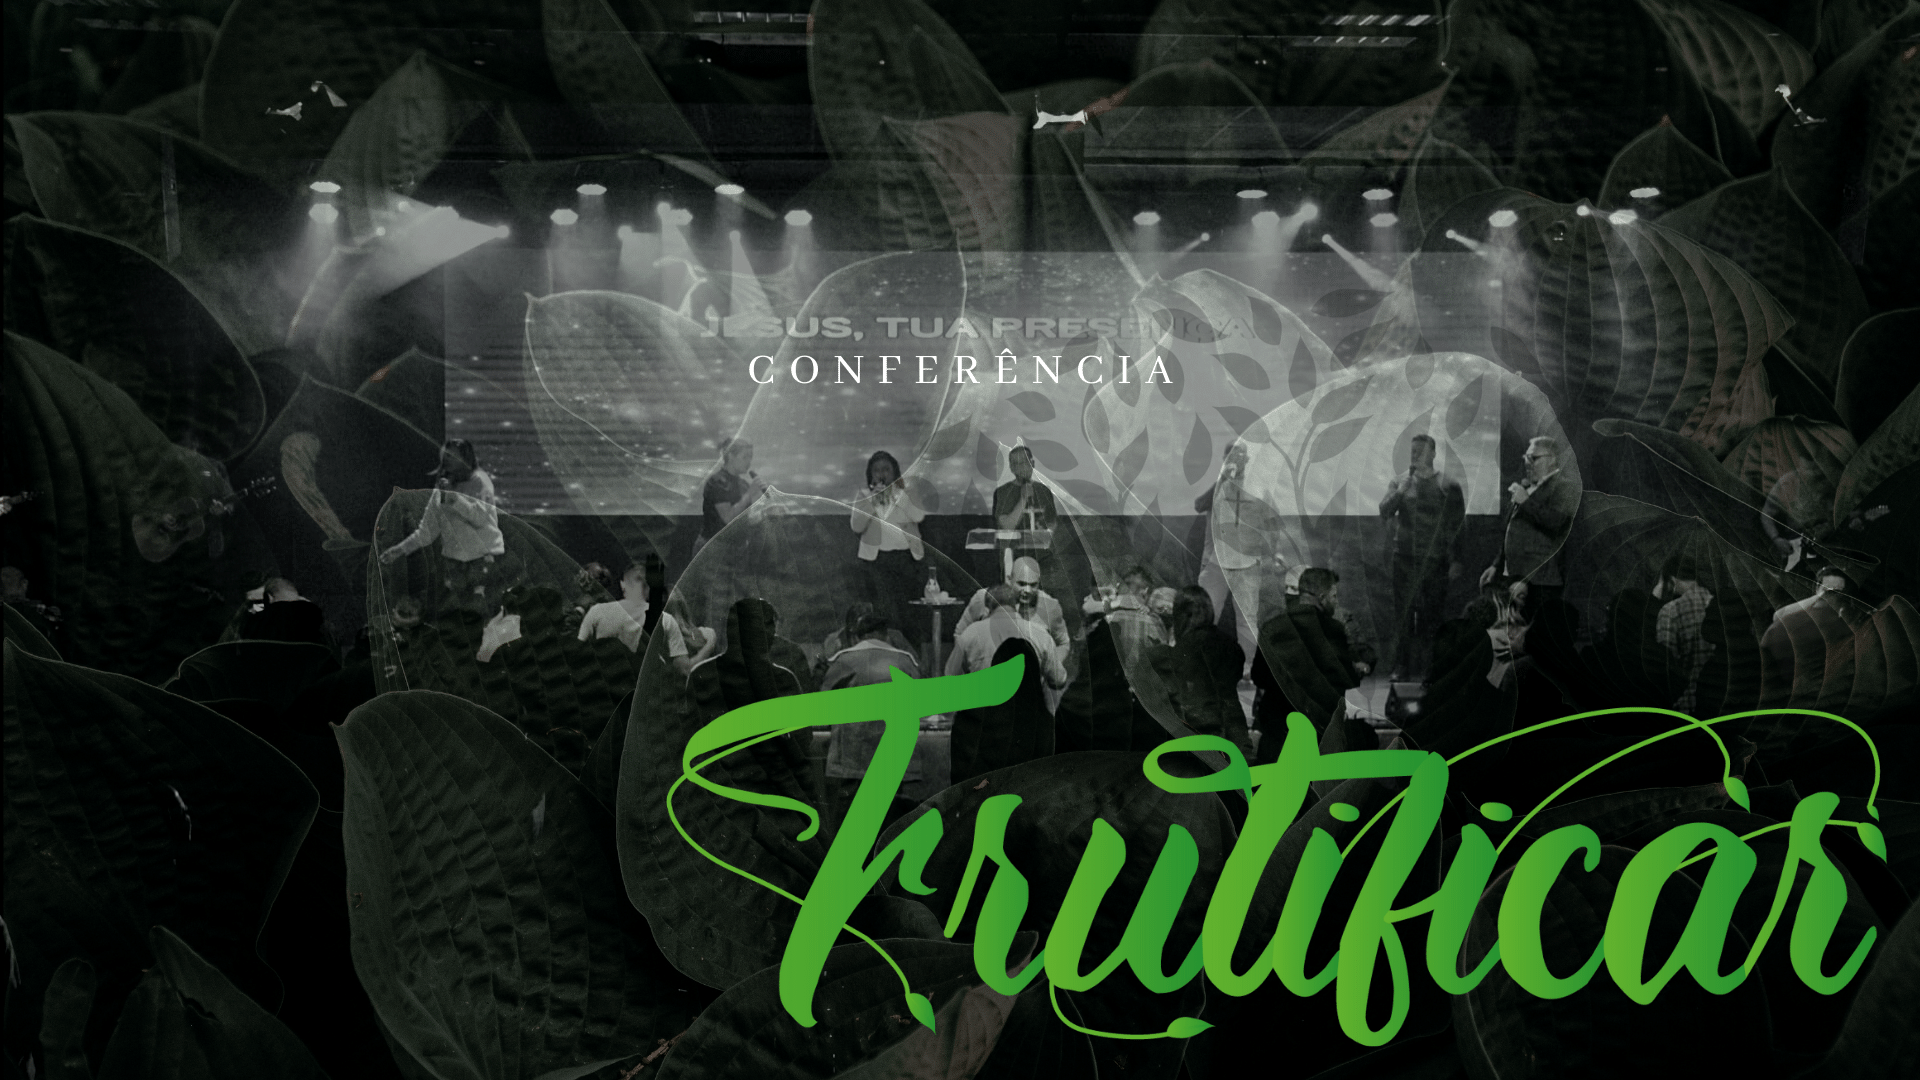
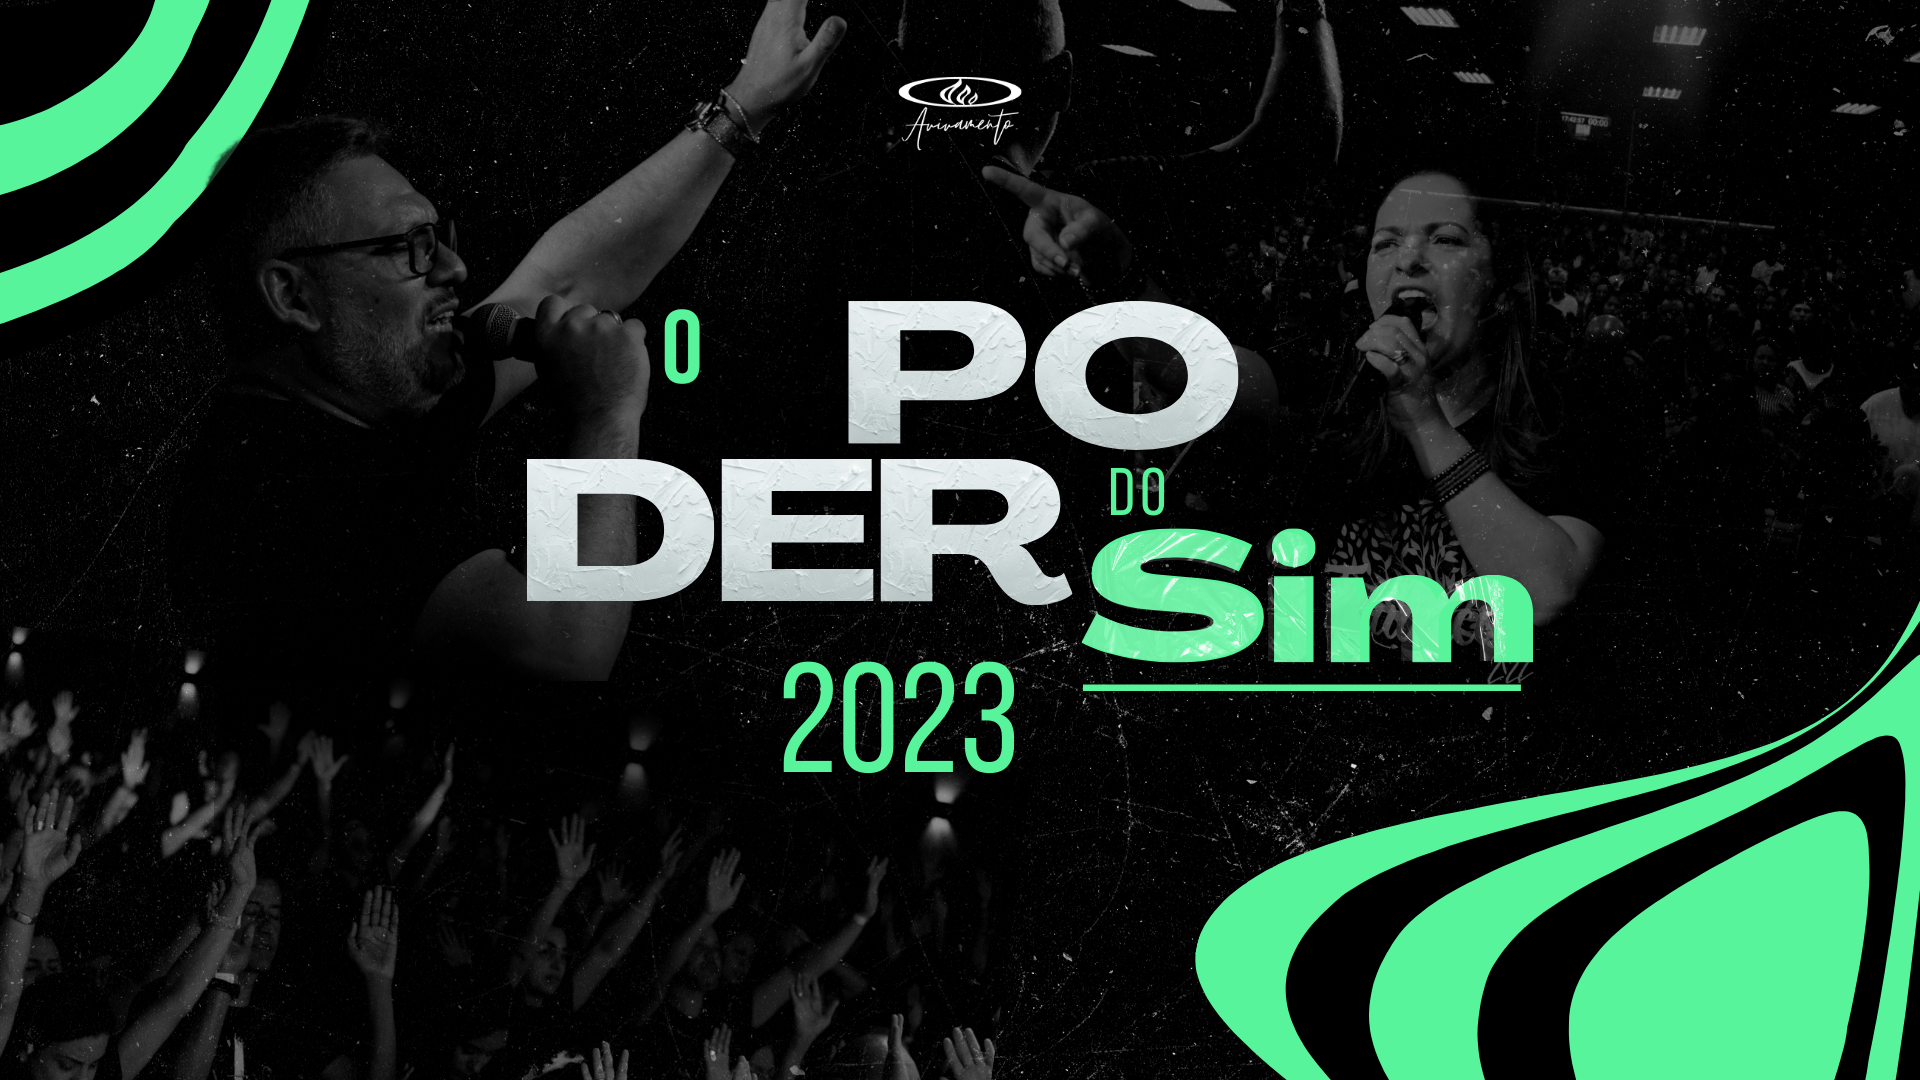
chore: adjust login

diff --git a/src/components/SignIn/index.tsx b/src/components/SignIn/index.tsx
@@ -9,9 +9,9 @@ const SignIn = () => {
   const [password, setPassword] = useState('')
   const [error, setError] = useState('')
 
-  if (session) {
-    redirect('/app')
-  }
+  // if (session) {
+  //   router.push('/app')
+  // }
 
   const handleLogin = async (e: SyntheticEvent) => {
     e.preventDefault()
@@ -36,50 +36,48 @@ const SignIn = () => {
   }
 
   return (
-    <div className="container-fluid mx-auto">
-      <div className="flex h-screen bg-zinc-700">
-        <div className="bg-cover bg-right w-full">
-          <img src="/lg-banner.png" className="h-full" />
-        </div>
-
-        <form onSubmit={handleLogin}>
-          <div className="flex flex-col w-100 justify-center h-screen mx-8">
-            <div className="block">
-              <img src="/logo.png" width="70%" className="mx-auto" />
-            </div>
-            <div className="w-full mb-1">
-              <input
-                onChange={(e) => setEmail(e.target.value)}
-                type="text"
-                name="email"
-                placeholder="Email"
-                className="p-3 mt-3 text-1xl border rounded min-w-full text-gray-700"
-              />
-            </div>
-            <div className=" w-full mb-1">
-              <input
-                onChange={(e) => setPassword(e.target.value)}
-                type="password"
-                name="password"
-                placeholder="Password"
-                className="p-3 mt-3 text-1xl border rounded min-w-full text-gray-900"
-              />
-            </div>
-            <div className="block w-full">
-              {error && (
-                <span className="text-red-400 text-sm block mt-2">{error}</span>
-              )}
-              <button
-                type="submit"
-                className="p-3 text-1xl text-center border rounded border-green-700 
-                                    hover:bg-green-500 bg-lime-500 mt-3 min-w-full"
-              >
-                Entrar
-              </button>
-            </div>
-          </div>
-        </form>
+    <div className="flex  bg-zinc-700">
+      <div className="bg-cover bg-right xl:w-full">
+        <img src="/lg-banner.png" className="h-full hidden xl:block " />
       </div>
+
+      <form onSubmit={handleLogin}>
+        <div className="flex flex-col w-100 h-[calc(100dvh)] mx-8">
+          <div className="block">
+            <img src="/logo-branco.png" width="70%" className="mx-auto my-16" />
+          </div>
+          <div className="w-full mb-1">
+            <input
+              onChange={(e) => setEmail(e.target.value)}
+              type="text"
+              name="email"
+              placeholder="Email"
+              className="p-3 mt-3 text-1xl border rounded min-w-full text-gray-700"
+            />
+          </div>
+          <div className=" w-full mb-1">
+            <input
+              onChange={(e) => setPassword(e.target.value)}
+              type="password"
+              name="password"
+              placeholder="Password"
+              className="p-3 mt-3 text-1xl border rounded min-w-full text-gray-900"
+            />
+          </div>
+          <div className="block w-full">
+            {error && (
+              <span className="text-red-400 text-sm block mt-2">{error}</span>
+            )}
+            <button
+              type="submit"
+              className="p-3 text-1xl text-center border rounded border-green-700 
+                                    hover:bg-green-500 bg-lime-500 mt-3 min-w-full"
+            >
+              Entrar
+            </button>
+          </div>
+        </div>
+      </form>
     </div>
   )
 }

diff --git a/src/pages/api/auth/[...nextauth].ts b/src/pages/api/auth/[...nextauth].ts
@@ -3,10 +3,10 @@ import GoogleProvider from 'next-auth/providers/google'
 import EmailProvider from 'next-auth/providers/email'
 import CredentialsProvider from 'next-auth/providers/credentials'
 import { prisma } from '@/infra/db/prisma/prismaClient'
-import { Account } from '@/repositories/account'
+import { User } from '@/infra/db/repositories/user'
 import { randomBytes, randomUUID } from 'node:crypto'
 
-const acount = new Account()
+const user = new User()
 export const authOptions: NextAuthOptions = {
   providers: [
     CredentialsProvider({
@@ -23,11 +23,15 @@ export const authOptions: NextAuthOptions = {
           name: 'User HardCode',
           role: 'admin'
         }
-        const teste = await acount.autenticade({ email: user.email })
+
+        const teste = await user.autenticade({
+          email: credentials.email,
+          password: user.password
+        })
 
         if (
-          credentials?.email == 'test@gmail.com' &&
-          credentials?.password == '123'
+          credentials?.email == user.email &&
+          credentials?.password == user.password
         ) {
           return user
         } else {

diff --git a/src/infra/cryptography/bcrypt.ts b/src/infra/cryptography/bcrypt.ts
@@ -1,0 +1,22 @@
+import crypto from 'node:crypto'
+
+class CryptAdapter {
+  constructor(private salt: string) {}
+
+  hashPassword(password: string) {
+    this.salt = crypto.randomBytes(16).toString('hex')
+    const hash = crypto
+      .pbkdf2Sync(password, this.salt, 1000, 64, `sha512`)
+      .toString(`hex`)
+    return hash
+  }
+
+  compare(password: string) {
+    const hash = crypto
+      .pbkdf2Sync(password, this.salt, 1000, 64, `sha512`)
+      .toString(`hex`)
+    // return this.hash === hash
+    return hash === password
+  }
+}
+export default CryptAdapter

diff --git a/src/infra/db/repositories/user.ts b/src/infra/db/repositories/user.ts
@@ -1,0 +1,26 @@
+import { prisma } from '@/infra/db/prisma/prismaClient'
+type TCredential = {
+  email: string
+  password: string
+}
+
+export class User {
+  async autenticade(credentials: TCredential): Promise<any> {
+    const user = await prisma.user.findMany({
+      where: {
+        email: credentials.email,
+        password: credentials.password
+      }
+    })
+    return user
+  }
+
+  async checkByEmail(email: string): Promise<any> {
+    const isValid = await prisma.user.findUnique({
+      where: {
+        email
+      }
+    })
+    return isValid
+  }
+}

diff --git a/src/pages/api/signup/index.ts b/src/pages/api/signup/index.ts
@@ -1,0 +1,18 @@
+// Next.js API route support: https://nextjs.org/docs/api-routes/introduction
+import type { NextApiRequest, NextApiResponse } from 'next'
+import CryptAdapter from '@/infra/cryptography/bcrypt'
+
+type Data = {
+  password: string
+  compar: string
+}
+
+export default function handler(
+  req: NextApiRequest,
+  res: NextApiResponse<Data>
+) {
+  const cripto = new CryptAdapter('teste')
+  const setPassword = cripto.hashPassword('123456')
+  const compar = cripto.compare('123456')
+  res.status(200).json({ password: setPassword, compar })
+}
